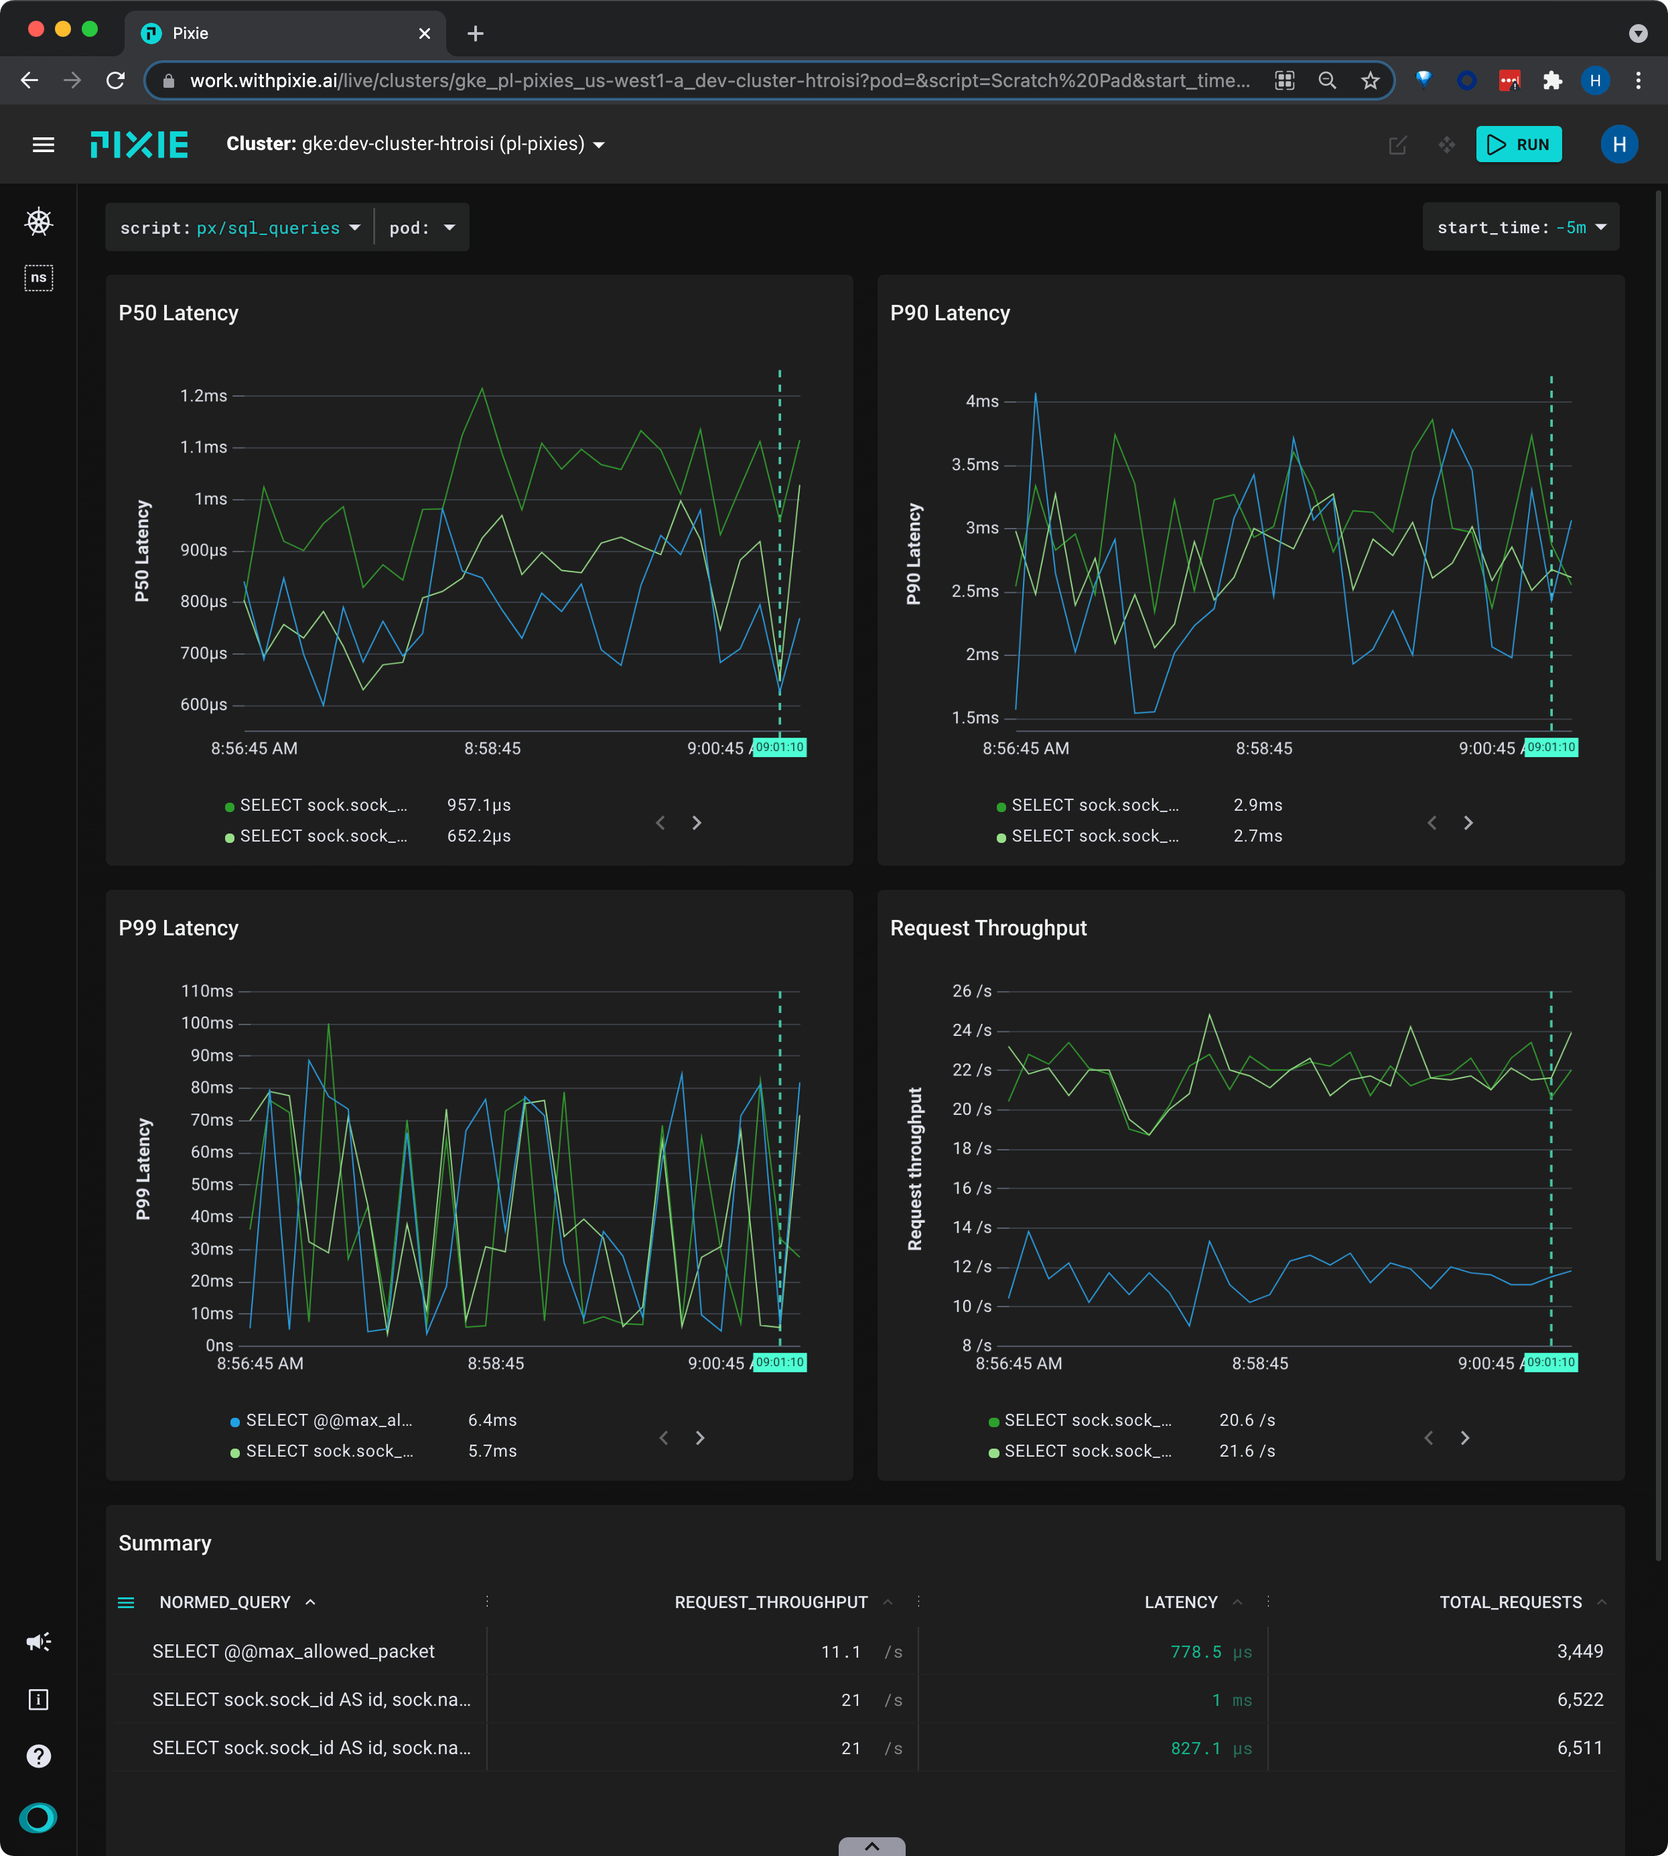
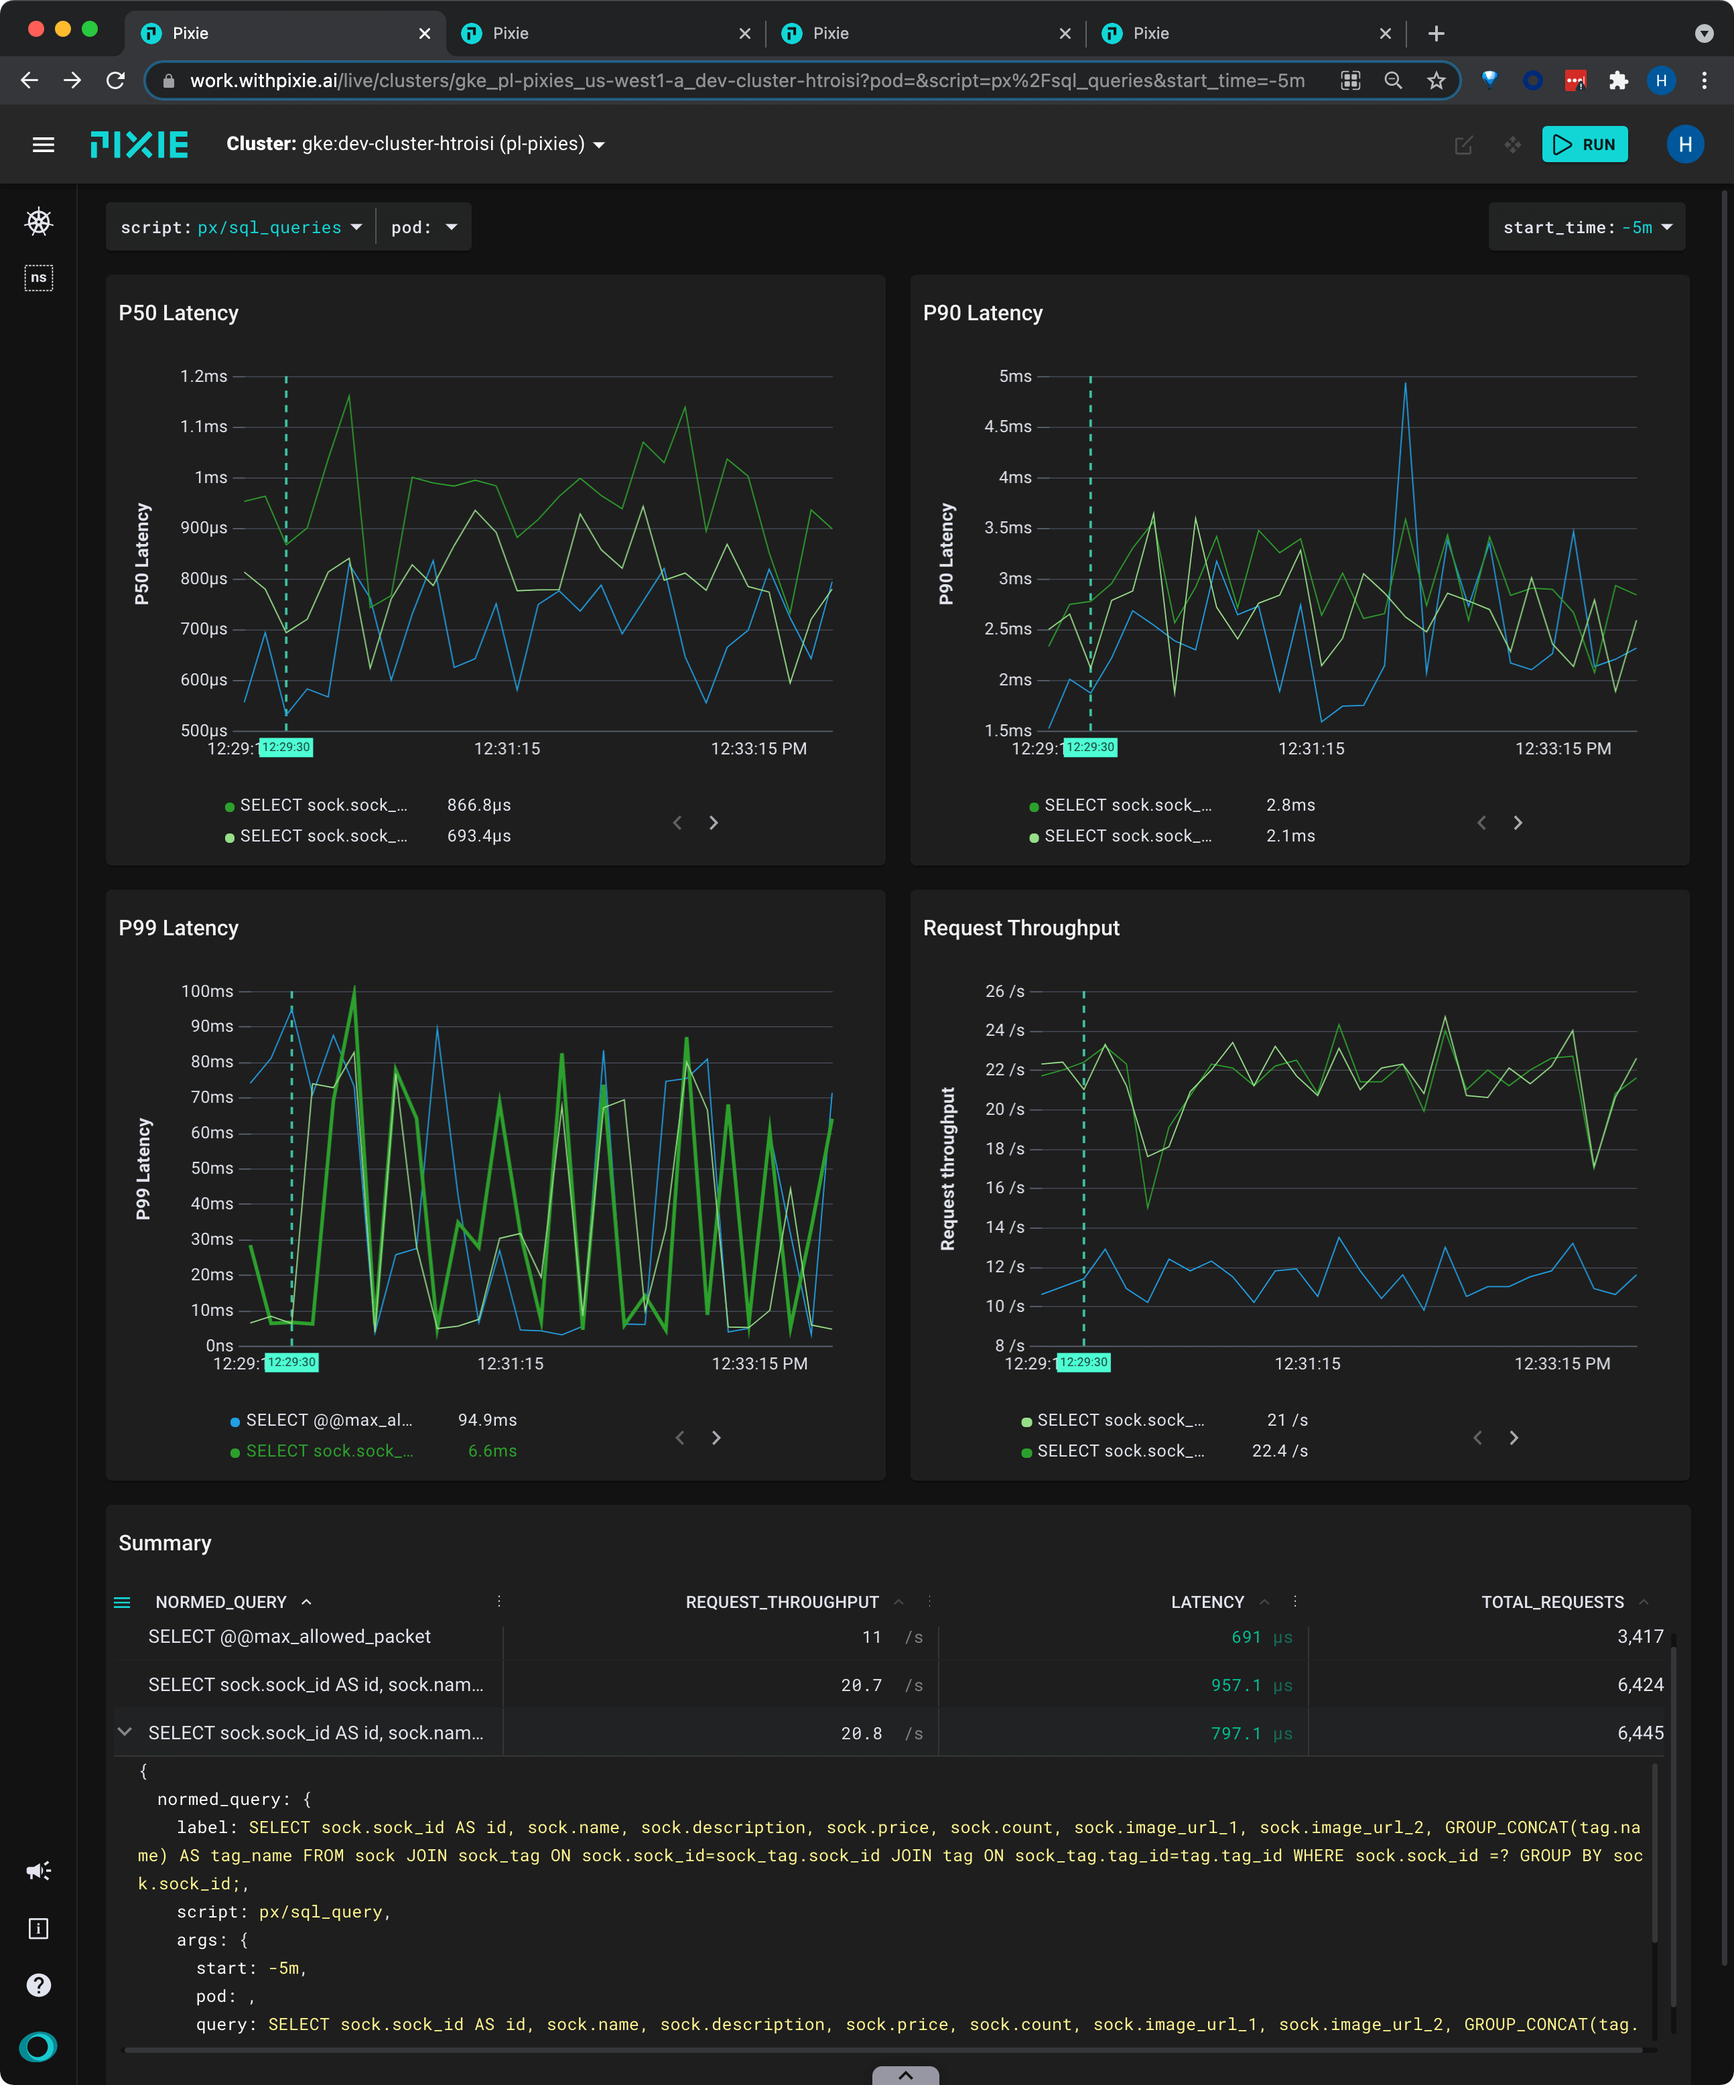
Update SQL query normalization content.

diff --git a/content/en/tutorials/pixie-101/database-query-profiling.md b/content/en/tutorials/pixie-101/database-query-profiling.md
@@ -67,13 +67,29 @@ To see the health of a pod's MySQL requests clustered by query type, we’ll use
 
 1. Select `px/sql_queries` from the `script` drop-down menu.
 
-> This live view calculates the latency, error rate, and throughput over time for each distinct normalized SQL Query. Pixie use ML to cluster query params.
+> This live view calculates the latency, error, and throughput over time for each distinct normalized SQL query.
+
+> A normalized query means that redundant data (such as various product IDs) has been eliminated from the query.
+
+> In this script, Pixie parses the SQL requests and displays the query constants with a `?`.
 
 ::: div image-xl relative
-<PoiTooltip top={80} left={65}>
-<strong>Click a table column title</strong>
+<PoiTooltip top={71} left={25}>
+<strong>Drag the 3-dot divider</strong>
 {' '}
-to sort the table data by that column.
+to expand the column.
+</PoiTooltip>
+
+<PoiTooltip top={78} left={2}>
+<strong>Click the `>`</strong>
+{' '}
+to see the row data in JSON form.
+</PoiTooltip>
+
+<PoiTooltip top={85} left={81}>
+<strong>Query param values</strong>
+{' '}
+are identified and replaced with `?`.
 </PoiTooltip>
 
 <svg title='' src='use-case-tutorials/sql_queries.png'/>
@@ -81,13 +97,39 @@ to sort the table data by that column.
 
 2. Scroll down to the "Summary" table.
 
-3. Click on a query in the `NORMED_QUERY` column to view statistics only for that particular query type.
+> For requests with longer message bodies, it's often easier to view the data in JSON form.
+
+3. Hover over the third row. Click the `>` character that appears to expand the row and see the row data in json form.
+
+> Here, you can see that the `sock_id` values have been replaced by a `?` in the query.
+
+4. Click the `>` to close the row.
+
+> Let's view health stats only for this particular query type.
+
+5. Instead of clicking the row's `>` icon, click the actual query text (`SELECT sock.sock_id AS...`) for the third row.
+
+> This script shows the same request health stats over time for each individual parameter for the given normalized SQL query.
+
+> The "Summary" table shoes the individual values passed to the `sock_id` parameter for this particular query.
+
+::: div image-xl relative
+<PoiTooltip top={75} left={2}>
+<strong>Show / hide table columns</strong>
+{' '}
+with the table column menu.
+</PoiTooltip>
+
+<PoiTooltip top={80} left={25}>
+<strong>Individual param values</strong>
+{' '}
+passed to the `sock_id` SQL parameter.
+</PoiTooltip>
 
 <svg title='' src='use-case-tutorials/sql_query.png'/>
+:::
 
-> This script shows the same request health stats over time for each distinct parameter set for a given normalized SQL query.
-
-> If the normalized query you picked doesn't have any parameters, click your browser's Back button and try a different query from the Summary table.
+6. Hover over the "Summary" table and scroll to the right to see latency stats per `sock_id` parameter.
 
 ## Individual Full Body Requests
 
@@ -109,9 +151,9 @@ with the table column menu.
 </PoiTooltip>
 
 <PoiTooltip top={24} left={33}>
-<strong>Sort the data</strong>
+<strong>Click a column title</strong>
 {' '}
-by clicking on a table column title.
+to sort the data.
 </PoiTooltip>
 
 <PoiTooltip top={56} left={55}>
